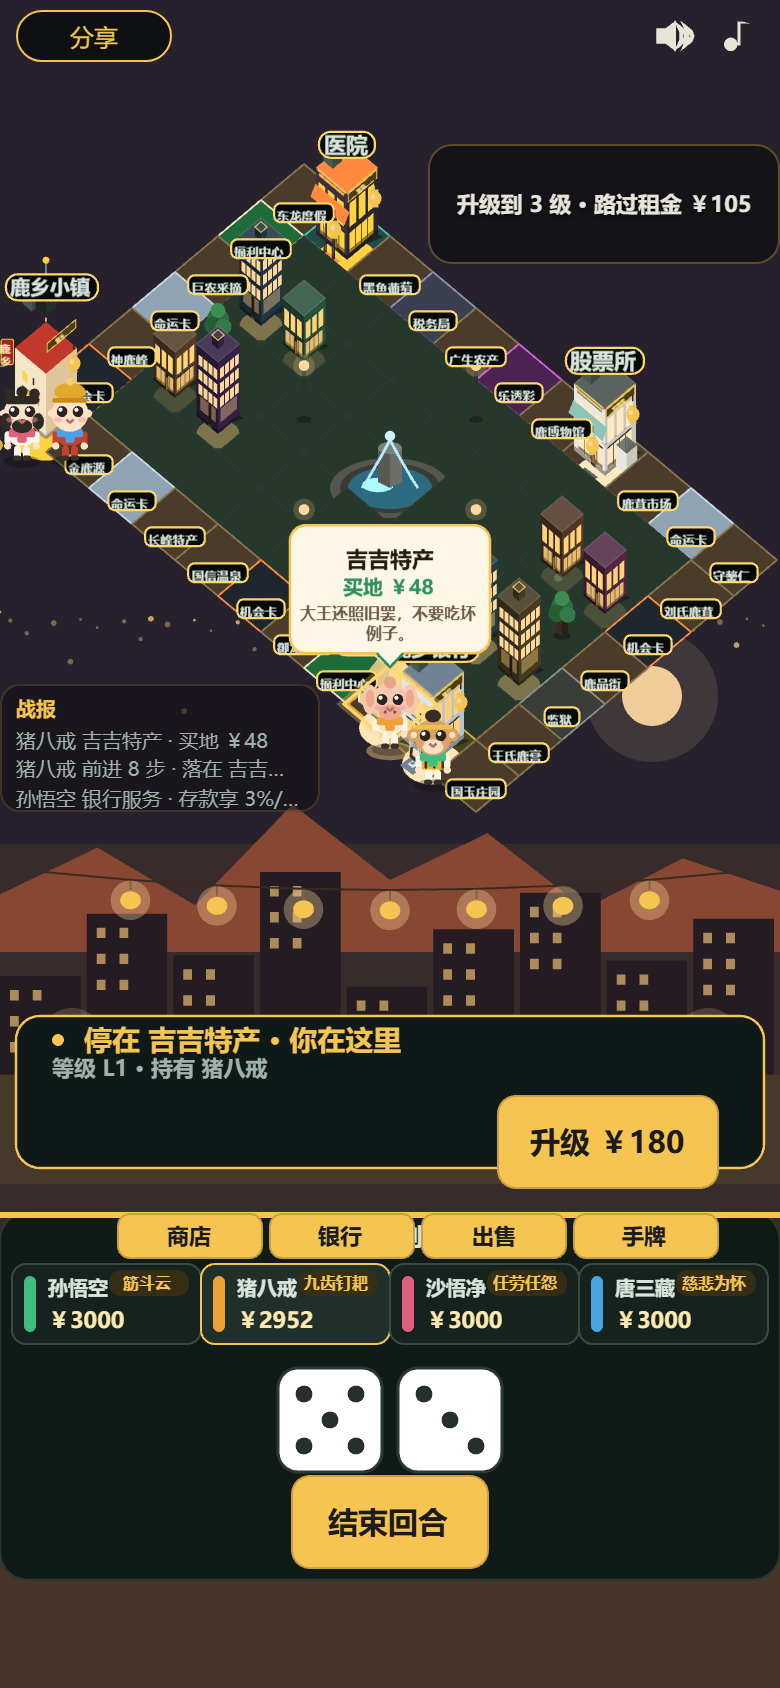
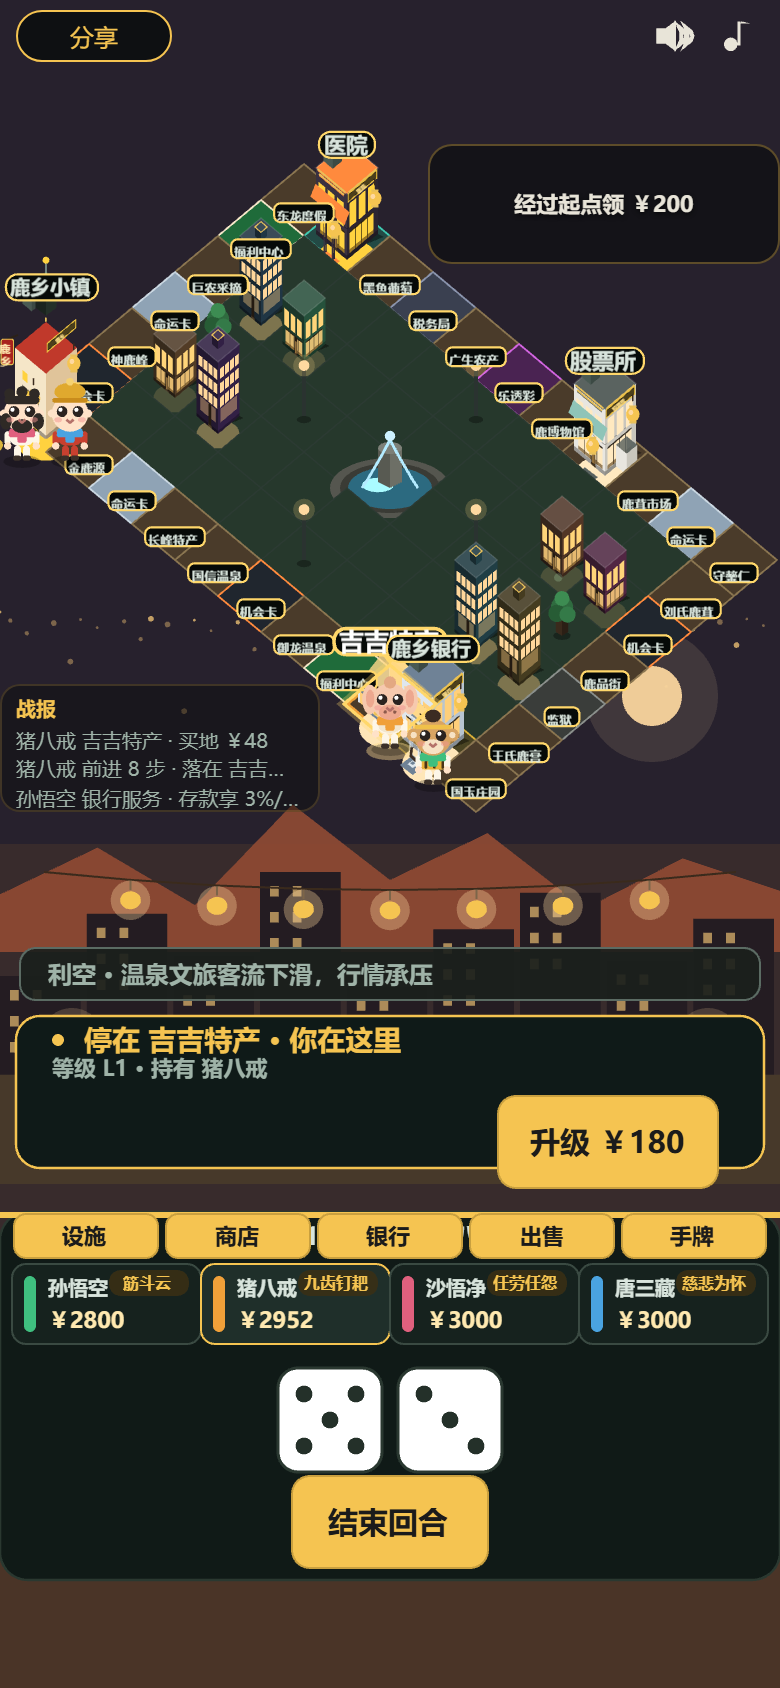
M20.4 Task6: 设施与新闻取证截图、操作手册（含认购键字号逐实例覆写）

diff --git a/monopoly/src/ui/panels.ts b/monopoly/src/ui/panels.ts
@@ -40,6 +40,7 @@ import {
   PANEL_CARD_CX, PANEL_CARD_CY, PANEL_CARD_S,
   PANEL_CHART_H, PANEL_CHART_W, PANEL_CHART_X, PANEL_CHART_Y, PANEL_CLOSE_H, PANEL_CLOSE_W,
   PANEL_CLOSE_X, PANEL_CLOSE_Y, PANEL_CX, PANEL_DEBT_CX, PANEL_DEBT_CY, PANEL_DRAW_X, PANEL_DRAW_Y,
+  PANEL_FACILITY_CTA_FS,
   PANEL_HAND_BAR_H, PANEL_HAND_BAR_W, PANEL_HAND_BAR_Y, PANEL_HAND_Y,
   PANEL_PREVIEW_W, PANEL_PREVIEW_X,
   PANEL_ROW_H, PANEL_ROW_W, PANEL_ROW_X, PANEL_SETTLE_ROW_GAP,
@@ -826,7 +827,10 @@ export function panelSpecs(
     /* 版式 100% 复用银行 C（spec §6.1 / F-D12）：左列 5 行设施（`ui.bankRow` row 变体）
        + 右列 5 行详情（line 变体）+ 两枚认购键 + 右上关闭键。
        5 行 344..576、两键 456..502 / 510..556 均在底板 300..600 内，且整段收在 606 之上
-       ⇒ 不与 HUD 快键行（607..629，画在浮层之上）冲突。 */
+       ⇒ 不与 HUD 快键行（607..629，画在浮层之上）冲突。
+       两枚键仅字号逐实例覆写为 `PANEL_FACILITY_CTA_FS`（`state.fs`）：标签「认购 1 股 ￥200」/
+       「认购 5 股 ￥1000」比银行键标签长，默认 15px 会溢出键宽（详见 `layout.ts` 同名常量注释），
+       台位 / 键宽仍与银行版式逐位相同。 */
     push('showcase.panel', PANEL_X, PANEL_Y);
     push('ui.badge', PANEL_CX, PANEL_BADGE_Y, { text: '公共设施 · 入股' });
     facilityRows(state, facility.sel).forEach((row, i) => {
@@ -841,10 +845,10 @@ export function panelSpecs(
     });
     push('ui.button.primary',
       PANEL_BANK_BTN_X + PANEL_BANK_BTN_W / 2, PANEL_BANK_BTN_Y + PANEL_BANK_BTN_H / 2,
-      { label: detail.primary.label, enabled: detail.primary.enabled });
+      { label: detail.primary.label, enabled: detail.primary.enabled, fs: PANEL_FACILITY_CTA_FS });
     push('ui.button.secondary',
       PANEL_BANK_BTN2_X + PANEL_BANK_BTN2_W / 2, PANEL_BANK_BTN2_Y + PANEL_BANK_BTN_H / 2,
-      { label: detail.secondary.label, enabled: detail.secondary.enabled });
+      { label: detail.secondary.label, enabled: detail.secondary.enabled, fs: PANEL_FACILITY_CTA_FS });
     push('ui.qk', PANEL_BANK_CLOSE_X + HUD_QK_W / 2, PANEL_BANK_CLOSE_Y + HUD_QK_H / 2,
       { label: '关闭', enabled: true });
   } else if (overlay === 'stock') {

diff --git a/monopoly/test/ui/panels-facility.spec.ts b/monopoly/test/ui/panels-facility.spec.ts
@@ -8,7 +8,7 @@ import {
   NEWS_TICKER_H, NEWS_TICKER_W, NEWS_TICKER_X, NEWS_TICKER_Y,
   PANEL_BANK_BTN2_Y, PANEL_BANK_BTN_H, PANEL_BANK_BTN_Y, PANEL_BANK_CLOSE_Y,
   PANEL_BANK_ROW_GAP, PANEL_BANK_ROW_H, PANEL_BANK_ROW_X, PANEL_BANK_ROW_Y0,
-  PANEL_H, PANEL_Y,
+  PANEL_FACILITY_CTA_FS, PANEL_H, PANEL_Y,
 } from '../../src/skin/layout';
 import {
   facilityDetail, facilityRows, newsTickerSpecOf, overlayOf, panelHitAreas, panelSpecs,
@@ -122,6 +122,20 @@ describe('panels：设施浮层画面与命中区', () => {
     expect(specs.filter((s) => s.id === 'ui.button.secondary')).toHaveLength(1);
     expect(specs.filter((s) => s.id === 'ui.qk')).toHaveLength(1);          // 关闭键
     expect(specs.some((s) => s.id === 'ui.handBar')).toBe(false);           // 浮层压住手牌行
+  });
+
+  it('两枚认购键逐实例压字号：`state.fs = PANEL_FACILITY_CTA_FS`（银行 / 商店分支不受影响）', () => {
+    const g = createGame({ dice: fixed(1, 1) });
+    const specs = specsWith(g, 'bank');
+    const primary = specs.find((s) => s.id === 'ui.button.primary')!;
+    const secondary = specs.find((s) => s.id === 'ui.button.secondary')!;
+    expect(primary.state!.fs).toBe(PANEL_FACILITY_CTA_FS);
+    expect(secondary.state!.fs).toBe(PANEL_FACILITY_CTA_FS);
+    /* 字号覆写只在设施分支：银行浮层两枚键不带 `fs`（沿用 skin 参数默认） */
+    const bankSpecs = panelSpecs(g.state, true, null, { open: true, sel: 'deposit' });
+    for (const s of bankSpecs.filter((x) => x.id === 'ui.button.primary' || x.id === 'ui.button.secondary')) {
+      expect(s.state!.fs).toBeUndefined();
+    }
   });
 
   it('命中区：5 行 facility:select（target = FacilityId）+ buy1 / buy5 + close', () => {

diff --git a/monopoly/src/skin/layout.ts b/monopoly/src/skin/layout.ts
@@ -278,6 +278,11 @@ export const PANEL_BANK_BTN2_Y = 510;            // 次键顶边
 export const PANEL_BANK_BTN_H = 46;              // = 注册表两枚操作键的高（与 HUD 同源）
 export const PANEL_BANK_CLOSE_X = 300;           // 右上「关闭」键左缘（复用 72×22 的 ui.qk）
 export const PANEL_BANK_CLOSE_Y = 307;           // 关闭键顶边（中心 y 与 PANEL_BADGE_Y 同线）
+/* M20.4 设施浮层两枚认购键的字号覆写（`state.fs`，见 `render/providers/proc-hud.ts` 的 `uiButton`）：
+   标签「认购 1 股 ￥200」/「认购 5 股 ￥1000」较银行键标签长——15px 下实测 110.4 / 119.7 宽，
+   溢出 98 / 110 的键宽 ⇒ 深色字压到深色底板上，肉眼像被裁切。压到 12px 后 88.3 / 95.7，两侧各留 ≥ 5px。
+   台位 / 键宽仍 100% 复用银行版式（F-D12），仅字号逐实例覆写。 */
+export const PANEL_FACILITY_CTA_FS = 12;
 
 /* —— M20.3 道具商店浮层（版式 100% 复用银行 C 的左右分栏、元素与键位，仅纵向排版更紧）——
    银行左列只有 3 行（行盒 152×40 / 间距 8），而商店目录有 8 项（M20.3-B 追加两种后）。

diff --git a/monopoly/src/render/providers/proc-hud.ts b/monopoly/src/render/providers/proc-hud.ts
@@ -113,9 +113,12 @@ export const uiButton: ProcPreset = (g, ctx) => {
     .fill({ color: enabled ? S(params, 'btnFill') : S(params, 'btnFillDisabled') })
     .stroke({ color: S(params, 'btnEdge'), width: G(params, 'btnEdgeW') });
   if (!text) return;
+  /* 字号默认取 skin 参数 `btnFs`；个别键（如设施浮层「认购 1 股 ￥200」= 11 字）标签比键宽长，
+     由 UI 层用 `state.fs` 逐实例压小，避免深色字压到深色底上像被裁切（台位 / 键宽仍复用银行版式）。 */
+  const fs = typeof state.fs === 'number' ? state.fs : G(params, 'btnFs');
   text({
     text: typeof state.label === 'string' ? state.label : '',
-    x: cx, y: cy + G(params, 'btnLabelDy'), size: G(params, 'btnFs'),
+    x: cx, y: cy + G(params, 'btnLabelDy'), size: fs,
     fill: enabled ? S(params, 'btnTextFill') : S(params, 'btnTextFillDisabled'),
   });
 };

diff --git a/monopoly/docs/manual-mono.md b/monopoly/docs/manual-mono.md
@@ -991,6 +991,71 @@ $env:MONO_ORIGIN='http://127.0.0.1:52302'; node local/mono-e2e-playthrough.mjs #
 
 **取证脚本**：[local/mono-shots-m20-3b.mjs](file:///d:/zhao/monopoly/local/mono-shots-m20-3b.mjs)（14 项机器闸门：`stock_rows` / `stock_chart_follows` / `stock_tiers` / `stock_lev_locked` / `overlay_panel` / `lev_unlocked` / `lev_selected` / `lev_buy_split` / `lev_chart_debt` / `bullbear_open` / `bullbear_panel` / `bullbear_play` / `dividend_holding` / `dividend_paid`）。关键口径：打 `?play=1&seed=20261002&nofx=1&humans=4&tour=0` 真实对局，停格走「真实掷骰 + 反推起点」落到 19 号股票格，全程点 `#mono-hud` / `#mono-panels` 命中层（唯一例外是 M20.3-A 就登记的 `__monoMain.setHandScroll` 取证 API，用于手牌横滑）。
 
+### M20.4 公共设施入股与每轮新闻（经济闭环第 4 轨道 · 收官）2026-10-02
+
+**范围**：对齐上位路线图 `docs/superpowers/specs/2026-10-01-monopoly-interaction-roadmap-design.md` §4.3 / **D25–D29**（诉求 ④「公共设施入股」+「每轮新闻」），落地细化见 spec `docs/superpowers/specs/2026-10-02-monopoly-m20-4-facility-and-news-design.md` 的 **F-D1..F-D15**。只新增设施股本 / 分红与新闻两条链，**17 个商家格一个不动**；**不提供设施股退出**（F-D14：本轮认购即持有到终局，退出机制留给 M21「动态要约收购」）。
+
+**两项需求与落点**：
+
+| # | 需求（D） | 落点 | 结果 |
+|---|---|---|---|
+| 1 | 公共设施入股 + 轮末分红（D25–D27） | [facilities.ts](file:///d:/zhao/monopoly/src/data/facilities.ts) 数值真源 / [facility.ts](file:///d:/zhao/monopoly/src/core/facility.ts) 纯函数 / [game.ts](file:///d:/zhao/monopoly/src/core/game.ts) `buyFacility` · `payFacilityDividends` · `facilityCashflow` / [panels.ts](file:///d:/zhao/monopoly/src/ui/panels.ts) 设施浮层 | 5 处设施**按 id 建模**（福利中心占 7 与 27 两格但算**一处**，F-D1）；每处 **20 股**；认购价 银行 ￥200 / 交易所 ￥180 / 医院 ￥150 / 乐透 ￥120 / 福利 ￥100；基础分红 **5%/轮**；HUD 第 5 枚常驻快键「设施」开浮层，认购 1 股 / 5 股 |
+| 2 | 每轮新闻（D28） | [news.ts](file:///d:/zhao/monopoly/src/data/news.ts) 固定表 / [game.ts](file:///d:/zhao/monopoly/src/core/game.ts) `onRoundBoundary` 第 6 步 `rollNews` / [panels.ts](file:///d:/zhao/monopoly/src/ui/panels.ts) `newsTickerSpecOf` | 开局发布第 1 轮新闻（F-D8）；此后**每轮末先结算再抽下一条**；固定表 10 条（设施 6 + 个股 4）；棋盘下缘 474..500 横条展示（利好金底 / 利空灰底） |
+
+**分红公式（F-D3）**：
+
+```text
+分红 = round( (shares × price × 0.05  +  cashflow × shares / 20) × coef )
+```
+
+`coef` = 该设施**当期**新闻系数（利好 ×1.5 / 利空 ×0.5 / 无关 ×1，由 `newsCoefOf` 判定）；`cashflow` = 该设施当期累计现金流（见下）。
+
+**四个现金流挂载点（F-D4）——关键取舍**：
+
+| 设施 | 现金流来源 | 本轮取值 | 零余额回归怎么保证 |
+|---|---|---|---|
+| 银行 | 轮末**贷款利息**（`interestOf`，含信用 + 抵押） | 实际累计 | 利息是**资本化记账**：`settleBooks` 只改 `p.loan` / `p.mortgages` 本金，**不动任何玩家现金** ⇒ 分成不动现金净额 |
+| 乐透 | 入场费 `LOTTERY_STAKE` | 实际累计 | 入场费现为**凭空扣除**（不进任何人账户）⇒ 分成只加不扣 |
+| 交易所 | 交易手续费 | **0**（`STOCK_FEE_RATIO = 0`） | 恒 0 |
+| 医院 | 住院罚金 | **0**（现无罚金） | 恒 0 |
+| 福利中心 | — | **0** | 恒 0 |
+
+> ⚠ **明示（F-D4 代价）**：四项现金流都做成「**不改任何玩家现金净额**」的挂载，是为了让本轮**不影响既有平衡与既有回归基线**（设施未售出时整条分红链恒为 0，逐值不变）。代价是「大股东吃现金流」在演示局**体感偏弱**（只有基础分红 5%/轮）；等 M21 接入板块租金与新的收费口径后，现金流分成才会显著。
+
+**新闻三影响面（F-D5 / F-D6 / F-D10）**：
+
+1. **设施分红系数**：`scope === 'facility'` 时命中设施的 `coef` = 1.5 / 0.5（当期生效，轮末分红用**当期**倍数 ⇒ 分红与新闻同一轮闭环）。
+2. **股价**：`scope === 'stock'` 时写入 `state.stockForce[code] = { code, dir }`，下轮 `market.tick` 按方向强制涨跌 —— **复用既有通道，`market.tick` 的短路结构逐字节不变**（命中 force 时**不调用 `rng()`**，F-D10，零回归）。
+3. **板块租金 ×1.25**：**本轮裁剪**（F-D6，D28 原文标「可裁剪」）。`PROPOSED_TILE_TIER`（商圈 tier）在 [board.ts](file:///d:/zhao/monopoly/src/data/board.ts) 注释明确「**未接入代码**」，无板块归属真源；M21 商圈连锁落地时一并接入。
+
+**设施浮层版式（F-D12）**：**100% 复用银行版式 C**——底板 `showcase.panel`（370×300 @ 10,300）+ 角标「公共设施 · 入股」+ 左列 5 行 `ui.bankRow`（row 变体，含行内 `selected` 与 summary `￥{price} · 已售 {sold}/20`）+ 右列 5 行 line 变体（名称 / 每股价 / 已售 / 你的持股 / 预估分红（含新闻系数提示）+ 现金）+ 两枚 `ui.button.primary`/`secondary`（「认购 1 股 ￥{price}」/「认购 5 股 ￥{price×5}」）+ 右上 `ui.qk`「关闭」。台位 / 键宽**逐位复用 `PANEL_BANK_*`**（F-D12：零新增 layout 常量）。
+
+> **必要偏差（已回填 spec §6.1）**：两枚认购键的标签比银行键标签长，默认 `btnFs = 15` 下实测宽 110.4 / 119.7px **溢出键宽** 98 / 110px；而 `uiButton` 的标签色 `#1b1b1b`（为金底设计的深色）压到深色底板上会**肉眼像被裁切**。修法：`uiButton` 支持逐实例字号覆写 `state.fs`（[proc-hud.ts](file:///d:/zhao/monopoly/src/render/providers/proc-hud.ts)），设施分支两枚键传 `PANEL_FACILITY_CTA_FS = 12`（[layout.ts](file:///d:/zhao/monopoly/src/skin/layout.ts)）→ 压到 88.3 / 95.7px，两侧各留 ≥ 5px。**台位 / 键宽仍 100% 复用银行版式**，仅字号逐实例覆写。
+
+**新闻条版式（F-D11）**：新增注册元素 `ui.newsTicker`（370×26 @ 10,474），落在棋盘底（≈406）与落地地块卡（508）之间的**自由带**；play 模式下该带为空（被 300..600 的浮层覆盖），故浮层展开时新闻条被**自然盖住**（`hudSpecs` 在 `panelSpecs` 之前合并）。新闻条是**信息条**（不吃事件），**不进任何命中区**。
+
+**HUD 第 5 枚快键（F-D15）**：快键行由 4 槽重排为 **5 槽**（步距 76 = `HUD_QK_W(72) + 4`，x0 = 7）→ **设施 7 / 商店 83 / 银行 159 / 出售 235 / 手牌 311**（右缘 383 ≤ 390）。既有四枚的**相对顺序不变**（设施 < 商店 < 银行 < 出售 < 手牌），只整体平移 ⇒ 既有「相对顺序」断言随常量自动通过，只有字面坐标 / 计数断言需同步。设施键与银行 / 商店键**同属常驻入口、三者互斥**（开一个先把另两个关掉）。
+
+**AI 策略（spec §7）**：`pickFacility` 带 `FACILITY_RESERVE = 500`（现金 < ￥500 不认购）；按 `FACILITIES` **表序**取第一处「未售罄 且 现金 ≥ `price × 2`」的设施**认购 1 股**；已满仓 / 无合适 → null。`settledPlan` 插入**第 ④ 步**：买地 → 升级 → 股票 → **设施** → 银行 → 商店 → 投机 → 卡片。
+
+**确定性**：新增**独立随机流** `newsRng = makeRng((seed ^ 0x2468ace) >>> 0)`（F-D7）——不动既有 `cardRng` / `marketRng` ⇒ 既有回放序列**逐字节不变**；`rollNews` 为固定表上的纯取模，全程无 `Math.random`（`test/smoke.spec.ts` 源码闸门通过）。
+
+**四级回退**：唯一新增可见元素 `ui.newsTicker` 已在 [registry.ts](file:///d:/zhao/monopoly/src/skin/registry.ts) 登记 + L4 内建 `fb({...})` 兜底，`npm run lint:skin` 通过（`registry-ids.json` 由 338 → **339 ids**）；设施浮层**零新增皮肤元素**（100% 复用 `showcase.panel` / `ui.badge` / `ui.bankRow` / `ui.button.primary` / `ui.button.secondary` / `ui.qk`）；几何集中在 [layout.ts](file:///d:/zhao/monopoly/src/skin/layout.ts) 的 `HUD_QK_*` / `NEWS_TICKER_*` / `PANEL_FACILITY_CTA_FS`，`src/render` 内零裸值（`tools/check-hardcoded.mjs` clean）。
+
+**回归口径（本轮实测）**：
+
+```powershell
+npx tsc --noEmit                                 # 退出码 0、无输出
+npm run check                                    # eslint 0 错；[theme] OK / [skin:default] OK / [skin:photo] OK；registry-ids.json: 339 ids；78 文件 / 856 例全绿
+npm run build                                    # [check-hardcoded] clean（29 个文件）→ ✓ built in 4.38s
+$env:MONO_ORIGIN='http://127.0.0.1:4178'; node local/mono-shots-m20-4.mjs      # [m20-4-shots] PASS · 12 项 gate 全 true、errors: []
+$env:MONO_ORIGIN='http://127.0.0.1:4178'; node local/mono-e2e-playthrough.mjs  # [e2e:play] PASS · round=61 · clicks=985 · 退出码 0 · tally 含 facility:buy1、18 项 gate 全 true
+```
+
+**截图清单（5 张，均 390×844 @dpr2 手机视口，出 780×1688 PNG，入 `docs/verify/`）**：`mono-m20-4-01-facility`（设施浮层：角标「公共设施 · 入股」+ 左列 5 行「鹿乡银行 ￥200 · 已售 0/20 / 股票交易所 ￥180 / 医院 ￥150 / 乐透彩 ￥120 / 福利中心 ￥100」+ 右列 5 行详情「鹿乡银行 · 每股 ￥200 / 已售 0/20 股 · 基础分红 5%/轮 / 你的持股 0 股 / 预估分红 ￥0/轮 / 现金 ￥3000」+ 「认购 1 股 ￥200」/「认购 5 股 ￥1000」+ 关闭键；HUD 快键行 5 槽「设施 ✓ / 商店 / 银行 / 出售 / 手牌」）/ `mono-m20-4-02-subscribed`（点「认购 1 股」后：已售 1/20、你的持股 1 股、预估分红 ￥10/轮、现金 ￥2800）/ `mono-m20-4-03-news-good`（新闻条「**利好** · 鹿乡银行揽储大增，股东分红看涨」）/ `mono-m20-4-03-news-bad`（新闻条「**利空** · 银行坏账暴露，股东分红缩水」）/ `mono-m20-4-04-dividend`（轮末分红后：预估分红 ￥**15**/轮 **· 新闻 ×1.5**、现金 ￥**2845**（+45））。另整局 e2e 新增 `mono-e2e-09-facility.png`。目视复核要点：① 两枚认购键与「关闭」键均**点得中**（浮层内可点元素底 576 ≤ HUD 快键行顶 607）；② 新闻条（474..500）不与棋盘底角 / 战报条（342..406）重叠；③ 第 5 枚快键「设施」不压状态行文字到不可读。
+
+**取证脚本**：[local/mono-shots-m20-4.mjs](file:///d:/zhao/monopoly/local/mono-shots-m20-4.mjs)（12 项机器闸门：`panel_open` / `panel_rows` / `panel_detail` / `panel_keys` / `panel_hits` / `panel_no_overlap` / `subscribe_paid` / `subscribe_detail` / `news_good` / `news_bad` / `dividend_paid` / `dividend_view`）。关键口径：打 `?play=1&seed=20261002&nofx=1&humans=4&tour=0` 真实对局，全程点 `#mono-hud` / `#mono-panels` 命中层；新闻两条用**表外合成 id**（`shot-good` / `shot-bad`）注入，以便确定性证明「轮末换新闻」（表内 id 均以 `n-` 开头）；分红取证经 `state.current = 3` + `state.phase = 'settled'` + `game.endTurn()` 触发跨圈轮末，并对齐 `state.facilityCashflow.bank = 400`（现金增量恰为分红 `0.05×200×1.5 + 400×1/20×1.5 = 45`，`settleBooks` 存款复利只写 `p.deposit` 不动现金）。
+
 ### 最终验收（对照 spec §11 硬性标准）
 
 | # | spec §11 条目 | 证据 |
